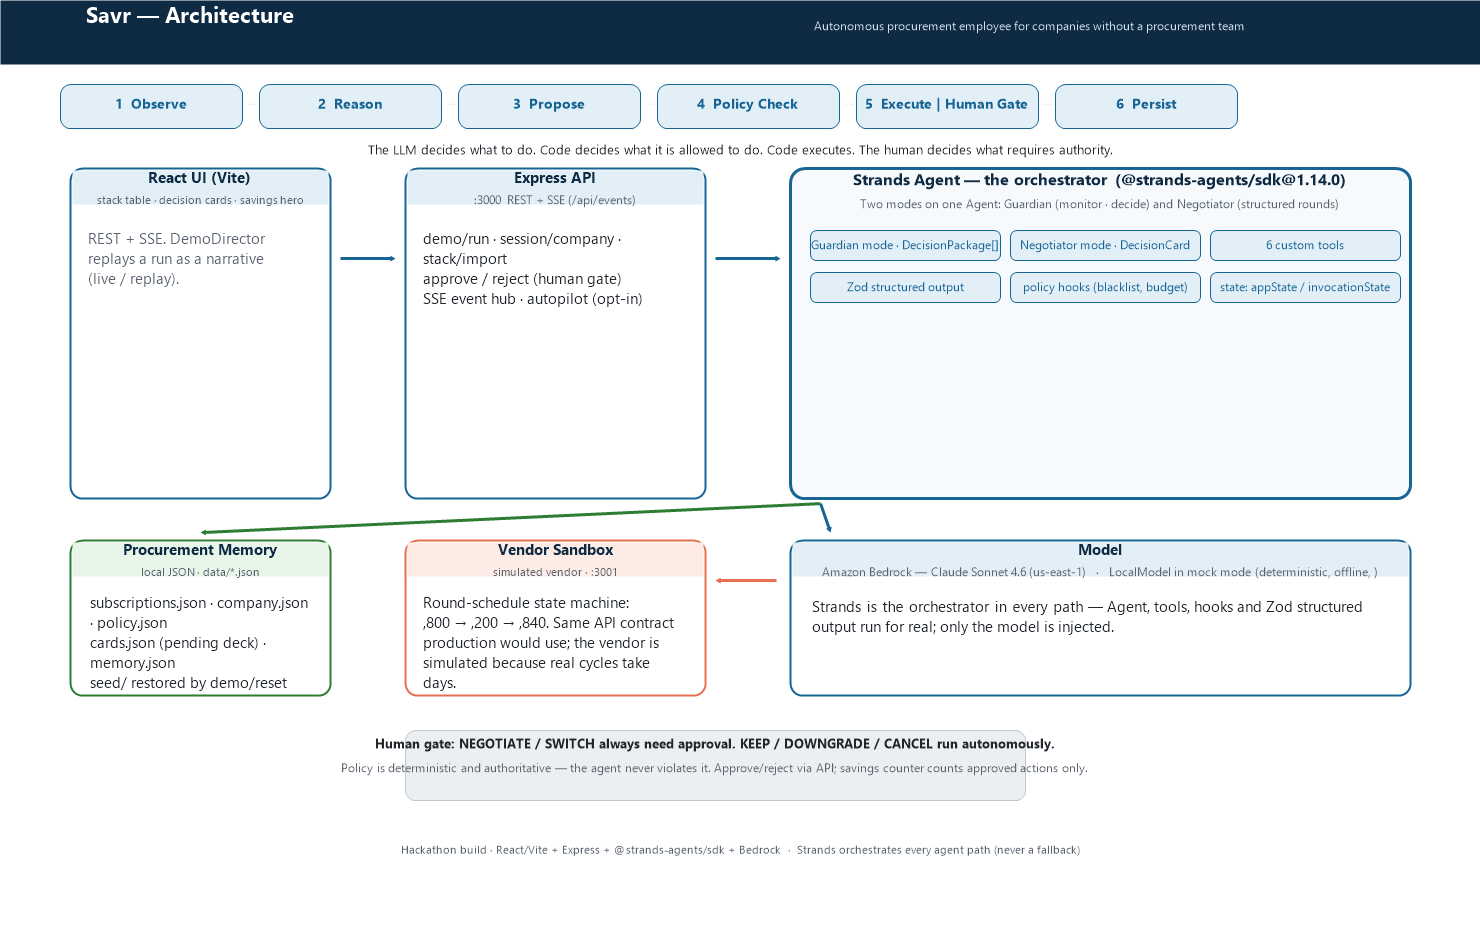
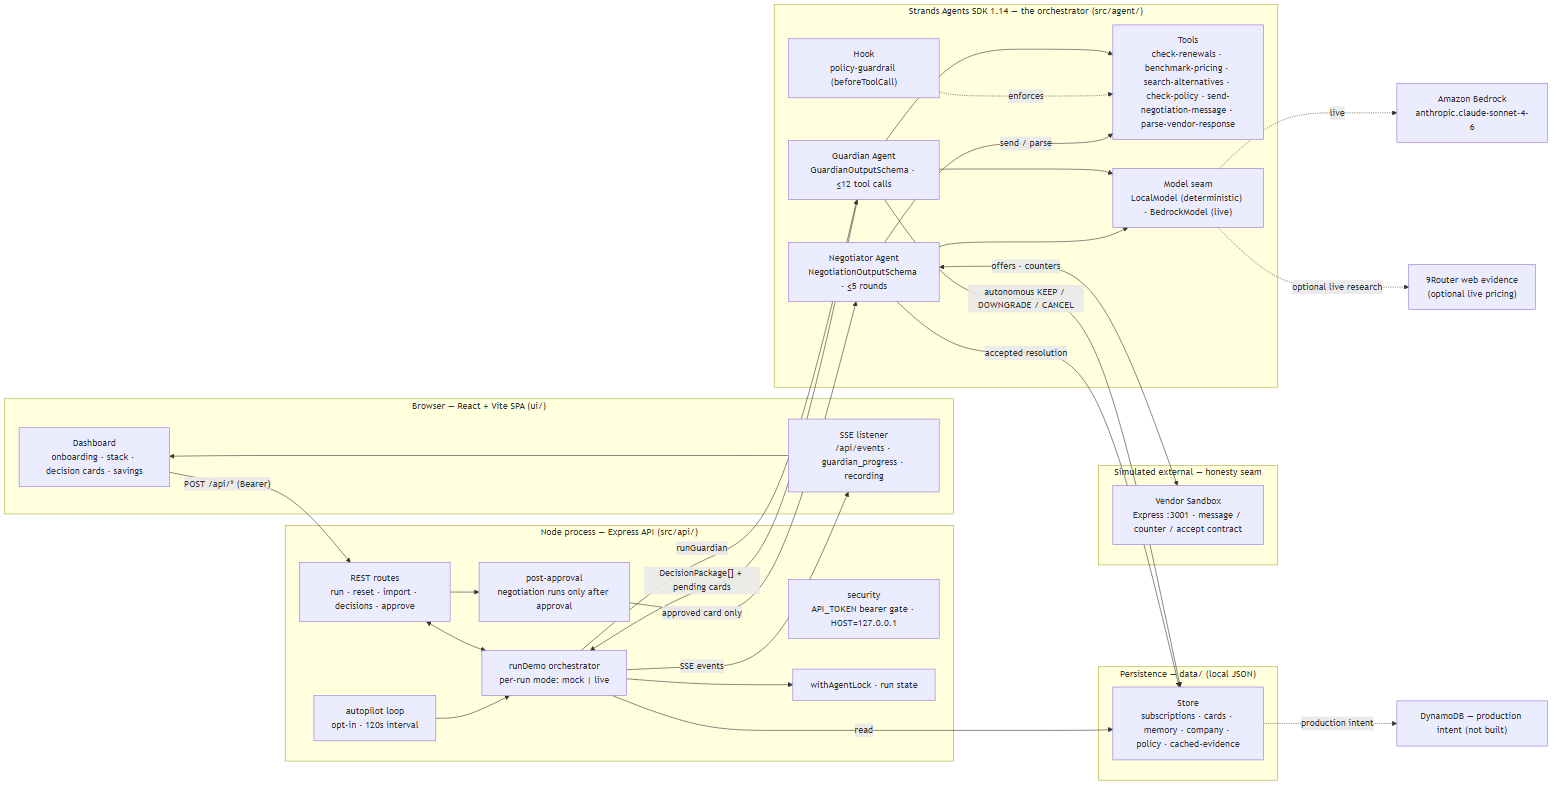
As-built architecture + runtime sequence diagrams (Mermaid-sourced)
- docs/architecture.mmd + .svg + .png: component map — Browser SPA, Express API,
  Strands SDK 1.14 orchestrator (Guardian/Negotiator/tools/hook/model seam),
  vendor sandbox, Bedrock + 9Router live seams, local JSON store, DynamoDB marked
  production-intent
- docs/architecture-sequence.mmd + .svg + .png: end-to-end runtime flow (Qodo
  diagram rebuilt to match the as-built approve-then-negotiate lifecycle)
- README + docs/01-architecture.md embed both diagrams and link the editable Mermaid
  sources

diff --git a/docs/01-architecture.md b/docs/01-architecture.md
@@ -235,3 +235,42 @@ function executeAction(card: DecisionCard, subscription: Subscription): PostAppr
 - **Persistence:** Local JSON (`data/*.json`). DynamoDB is the production intent, not
   implemented in the submission.
 - **Cost guardrails:** `DEMO_MODE=true` is the default (cached evidence, local memory). Autopilot is opt-in (`AUTOPILOT_ENABLED=true`) so a dev server never makes unsolicited Bedrock calls. `SAVR_MODEL` env overrides the model for dev loops; the demo pins Sonnet 4.6. See `docs/07-build-plan.md` → "AWS Cost Guardrails".
+
+## As-Built Component Map
+
+![Savr as-built component map](architecture.svg)
+
+(The same diagram exists as a PNG at `architecture.png`; the editable Mermaid source
+is `architecture.mmd`.)
+
+Ownership boundaries, top to bottom:
+
+- **Browser** — React + Vite SPA (`ui/`): dashboard, onboarding screens, and an SSE
+  listener that streams Guardian progress and the recorded event narrative.
+- **Express API** (`src/api/`) — REST routes, the `runDemo` orchestrator (mode is a
+  per-run parameter, `mock | live`), post-approval (negotiation triggered only by an
+  approved card), the opt-in autopilot clock, and the bearer-token gate that every
+  state-changing route requires when `API_TOKEN` is set.
+- **Strands Agents SDK 1.14 — the orchestrator** (`src/agent/`) — one Agent with two
+  modes (Guardian/Negotiator); six tools; the `beforeToolCall` policy guardrail hook;
+  structured output (`GuardianOutputSchema`/`NegotiationOutputSchema`); and the model
+  seam (`LocalModel` for deterministic mock runs, `BedrockModel` for live).
+- **Honesty seams (dashed)** — the **Vendor Sandbox** (Express :3001) simulates the
+  vendor's counter/accept contract; **Amazon Bedrock** (`anthropic.claude-sonnet-4-6`)
+  and the optional 9Router live research path are live-mode additions; **DynamoDB**
+  is marked production intent, not built.
+- **Persistence** — `data/*.json` (subscriptions, cards, memory, company, policy,
+  cached evidence).
+
+## Runtime Sequence
+
+![Savr runtime sequence](architecture-sequence.svg)
+
+(Editable Mermaid source: `architecture-sequence.mmd`.)
+
+The happy path end-to-end: a user starts the review, the Guardian reads policy and
+cached evidence and emits validated decision packages, the two approval-required cards
+are held for the human (nothing contacts a vendor before approval), approving a card is
+what authorizes the Negotiator, the sandbox plays the vendor across a bounded number of
+rounds, and the accepted resolution is persisted and streamed back — ending at the
+asserted **$5,760/yr** in annual savings.

diff --git a/README.md b/README.md
@@ -28,6 +28,11 @@ See `docs/01-architecture.md`.
 
 ![Architecture Diagram](docs/architecture.png)
 
+![Runtime Sequence](docs/architecture-sequence.svg)
+
+Diagram sources (editable Mermaid): [`docs/architecture.mmd`](docs/architecture.mmd) ·
+[`docs/architecture-sequence.mmd`](docs/architecture-sequence.mmd).
+
 Core loop: **Observe → Reason → Propose → Policy Check → Execute or Human Gate → Persist**
 
 The LLM decides what to do. Code decides what it is allowed to do. Human decides what requires human authority.
